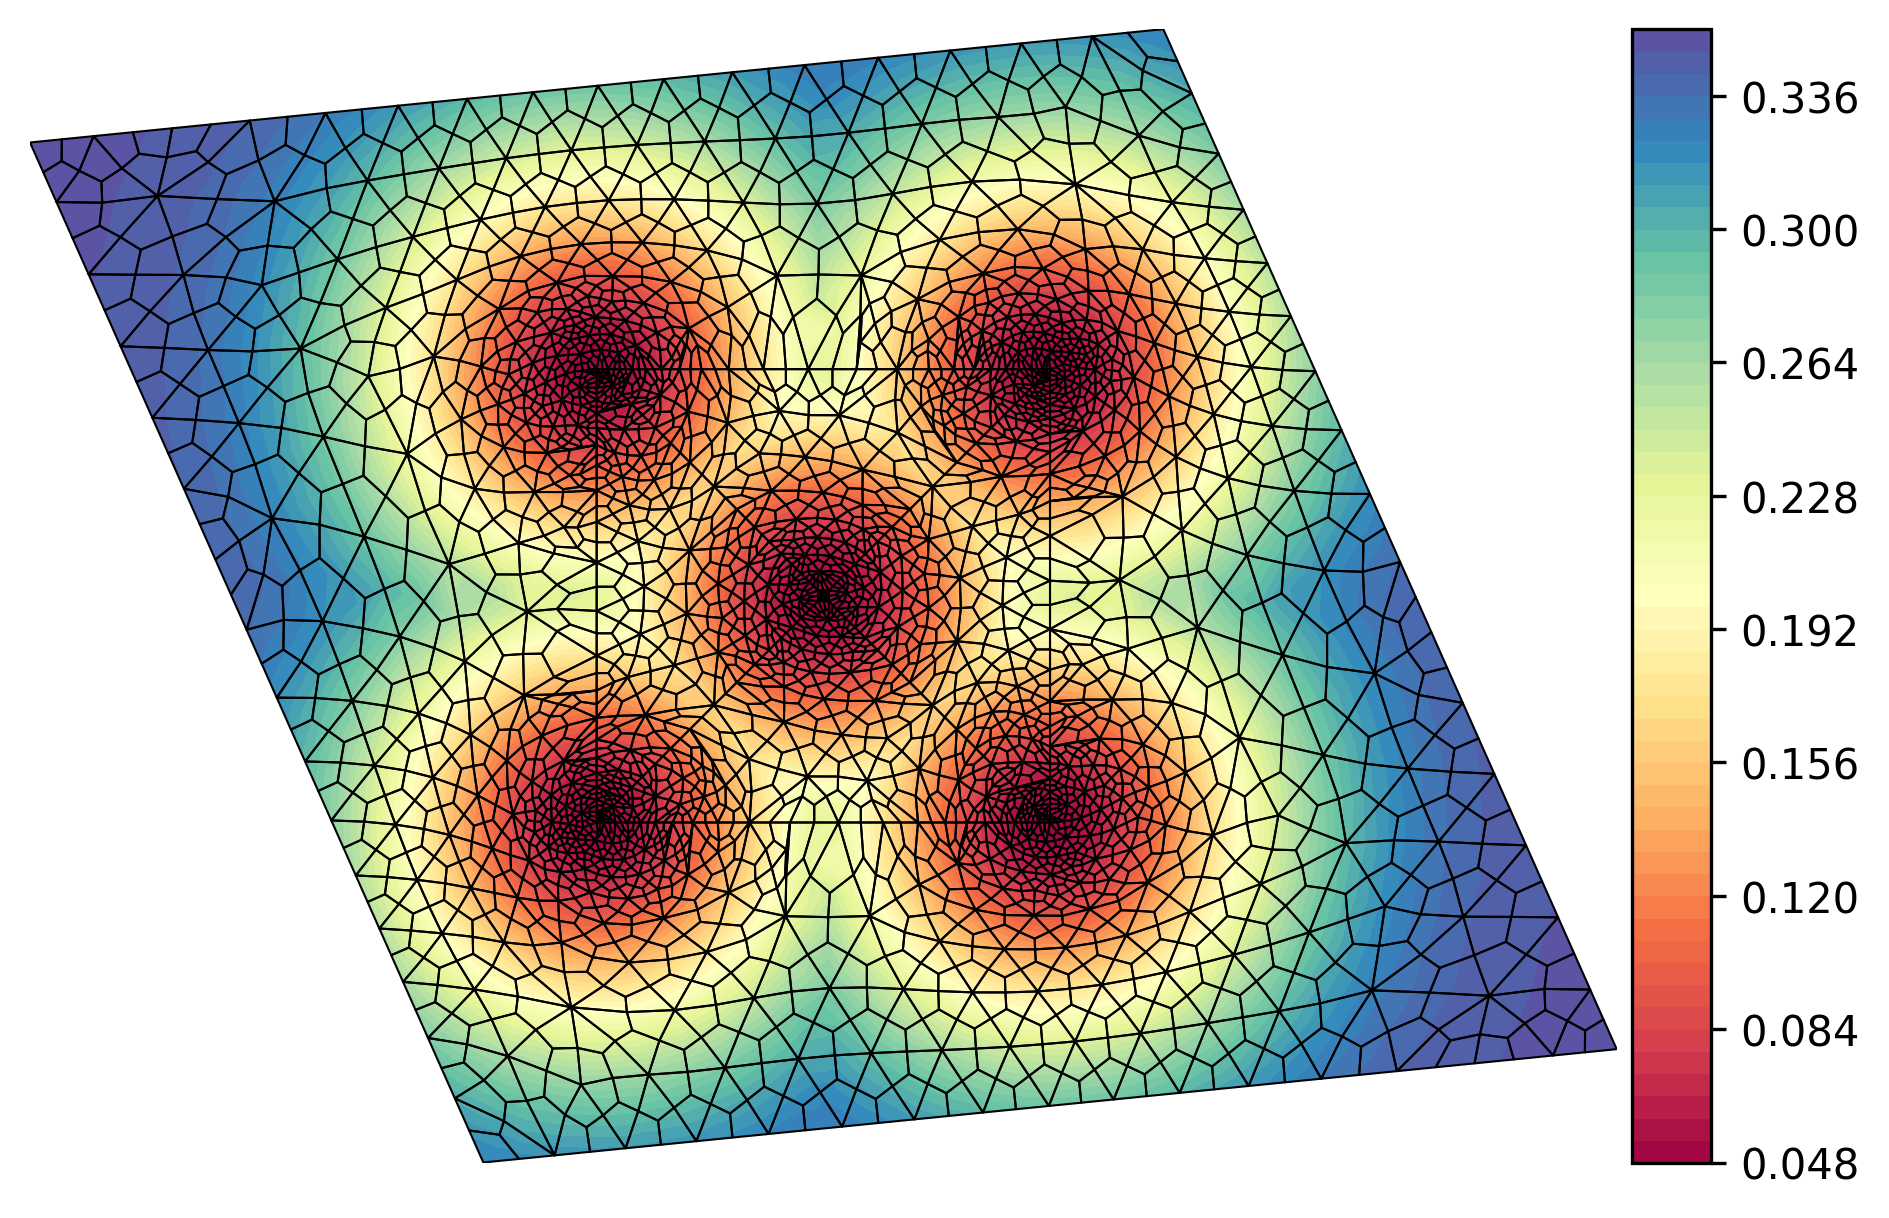
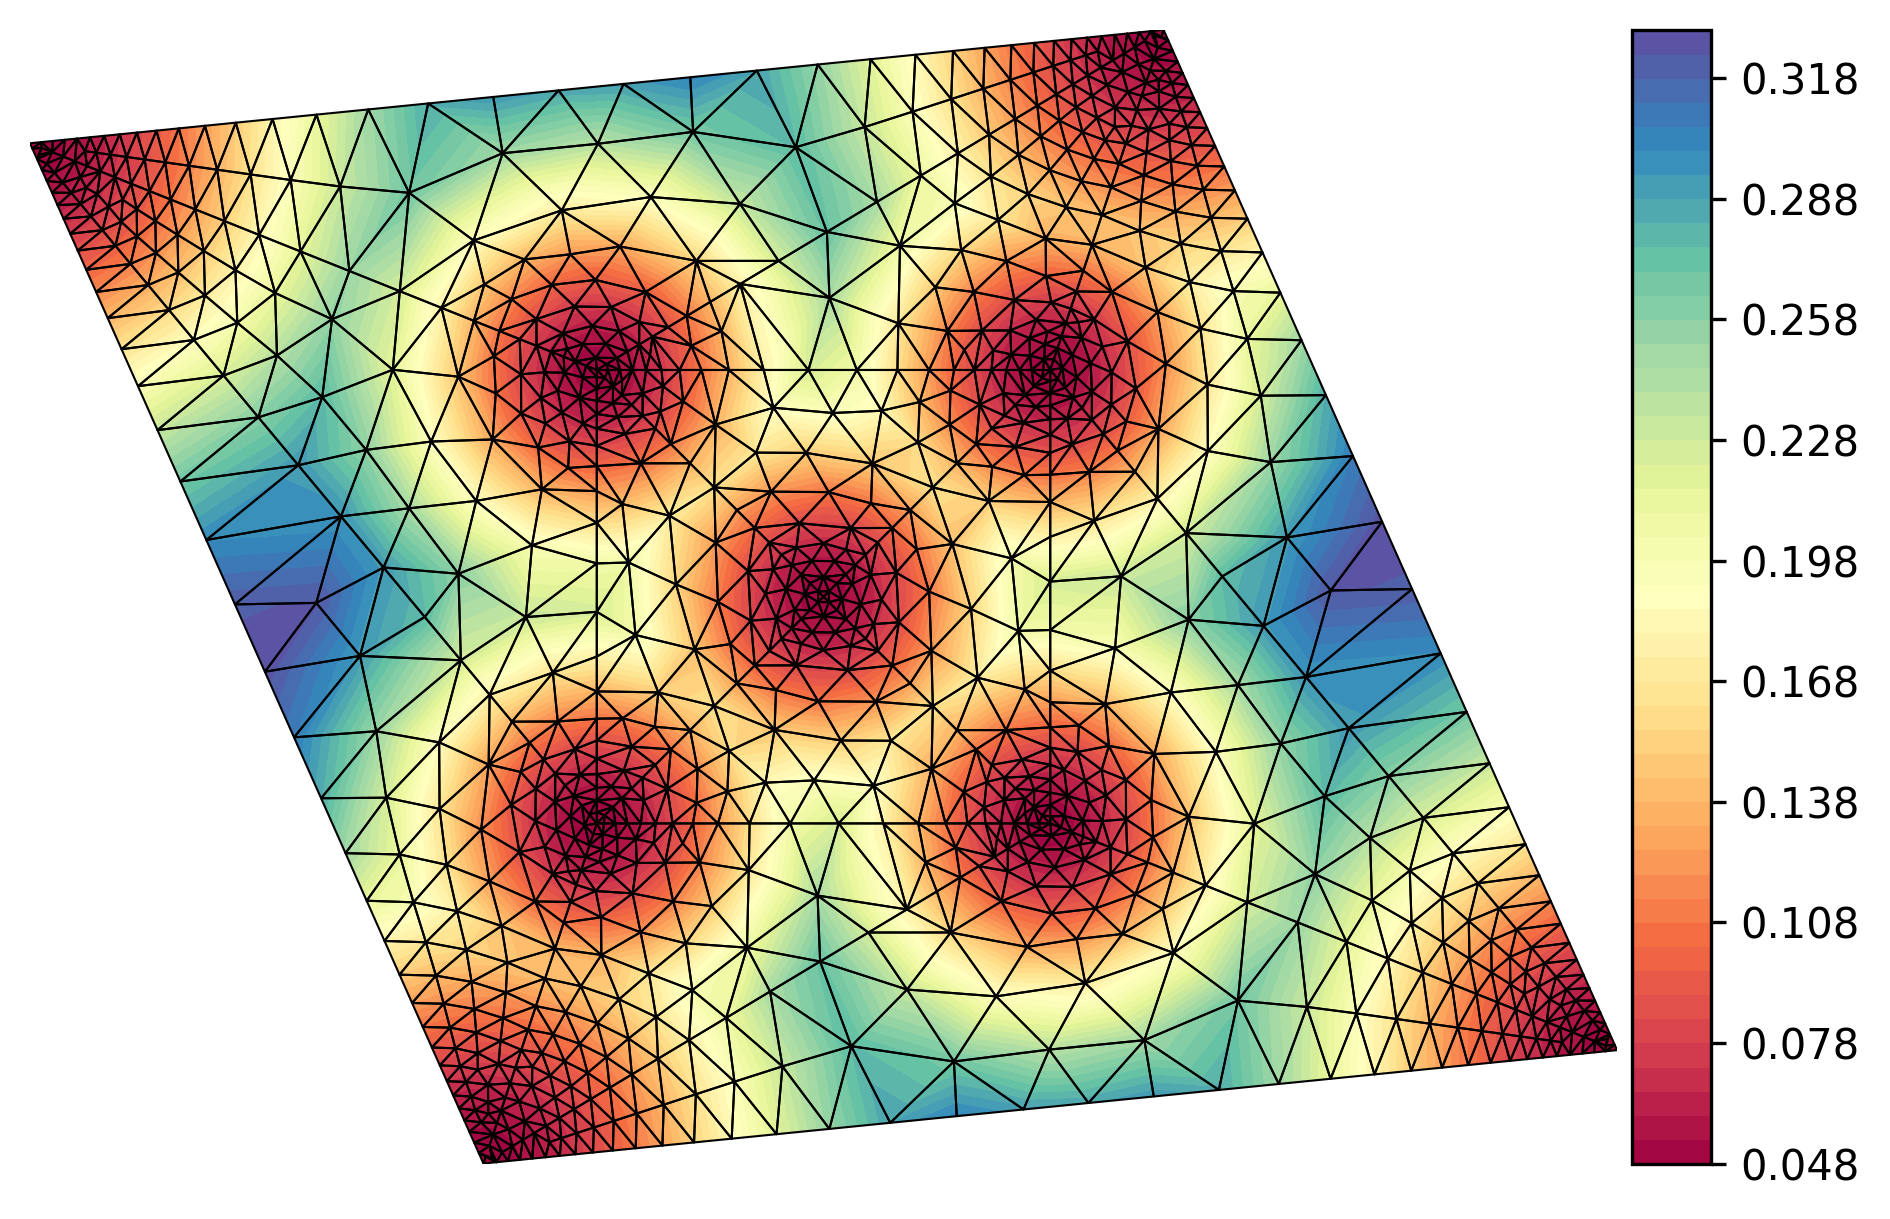
Update example 9 (fixed edges)

diff --git a/src/examples/09_fixed_edges.cpp b/src/examples/09_fixed_edges.cpp
@@ -23,10 +23,10 @@ bool fixed_edges()
   Domain domain { f };
 
   // Vertices
-  Vertex& v0 = domain.add_vertex( 1.0,  0.0 ); 
-  Vertex& v1 = domain.add_vertex( 6.0,  0.5 ); 
-  Vertex& v2 = domain.add_vertex( 4.0,  5.0 );
-  Vertex& v3 = domain.add_vertex(-1.0,  4.5 );
+  Vertex& v0 = domain.add_vertex( 1.0,  0.0, 0.05, 0.1 ); 
+  Vertex& v1 = domain.add_vertex( 6.0,  0.5, 0.05, 0.1 ); 
+  Vertex& v2 = domain.add_vertex( 4.0,  5.0, 0.05, 0.1 );
+  Vertex& v3 = domain.add_vertex(-1.0,  4.5, 0.05, 0.1 );
 
   Boundary&  b_ext = domain.add_exterior_boundary();
   b_ext.add_edge( v0, v1, 1 ); // 1: Color for bottom edge
@@ -52,6 +52,17 @@ bool fixed_edges()
   domain.add_fixed_edge( v7, v8 );
   domain.add_fixed_edge( v8, v5 );
 
+  // It is possible to generate fixed edges from normal vertices
+  // and fixed vertices
+  domain.add_fixed_edge( v0, v5 );
+  domain.add_fixed_edge( v0, v6 );
+  domain.add_fixed_edge( v1, v6 );
+  domain.add_fixed_edge( v1, v7 );
+  domain.add_fixed_edge( v2, v7 );
+  domain.add_fixed_edge( v2, v8 );
+  domain.add_fixed_edge( v3, v8 );
+  domain.add_fixed_edge( v3, v5 );
+
   /*------------------------------------------------------------------
   | Mesh generation 
   ------------------------------------------------------------------*/
@@ -60,7 +71,7 @@ bool fixed_edges()
 
   generator.triangulation(mesh).generate_elements();
 
-  generator.quad_refinement(mesh).refine();
+  //generator.quad_refinement(mesh).refine();
 
   generator.mixed_smoothing(mesh)
     .epsilon(0.7) 
